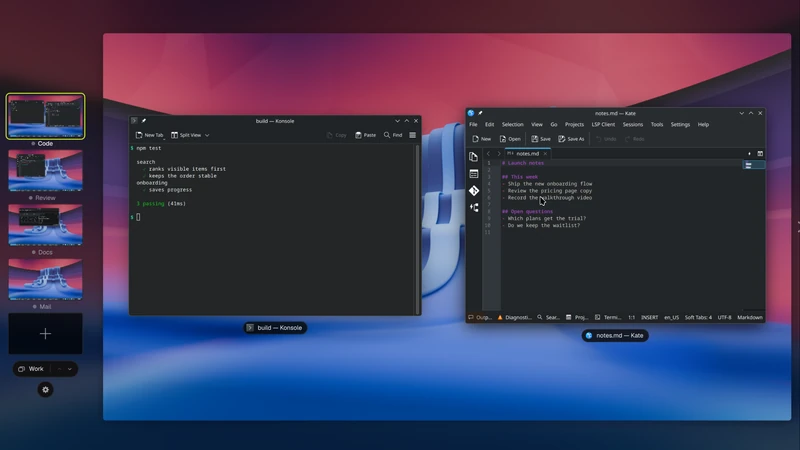
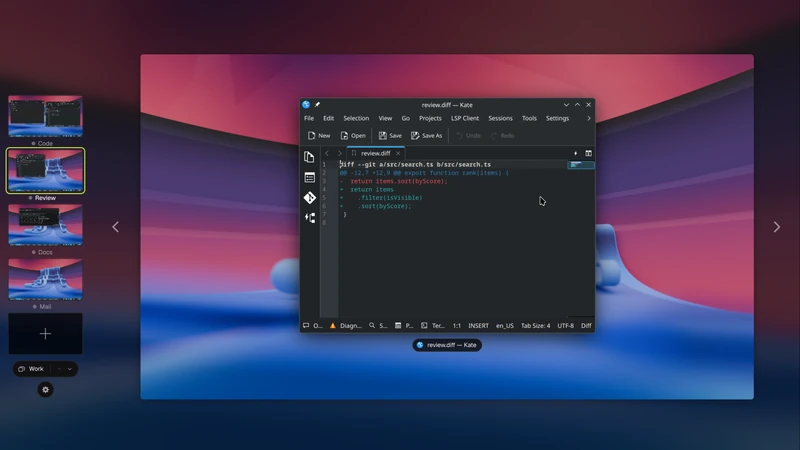
The desktop view's arrows beside a side bar, and a switch for them
- With the bar on the left or right, both of the view's < and > sit whole,
  each in its own gap: the one on the bar's side used to draw over the bar
  (taking its desktops' clicks), and on a 16:9 screen the other fell off the
  screen's edge. The view keeps room for them. Checked by the new arrowsside
  scenario, which a build with the old placement fails.
- Settings, General: "Show arrows beside the desktop view". Off, the arrows
  go and the view takes their room.
- The README's side-bar pictures show both arrows, and the README says
  where they sit and that they can be turned off.

diff --git a/package/contents/ui/impl/Main.qml b/package/contents/ui/impl/Main.qml
@@ -342,7 +342,7 @@ FocusScope {
     }
     // the pause before a held window switches desktops, and between switches while it stays
     readonly property int arrowHoldMs: 1000
-    readonly property bool arrowsShown: overviewVal > 0 && gridVal < 1 && !windowsOnly && groupDesktops.length > 1
+    readonly property bool arrowsShown: effect.showSideArrows && overviewVal > 0 && gridVal < 1 && !windowsOnly && groupDesktops.length > 1
     // where the desktop view is (read again whenever it could have moved), without the slide of a
     // desktop switch in progress: the arrows stay put while the desktops slide past
     readonly property rect viewRect: {
@@ -359,16 +359,20 @@ FocusScope {
         required property int side
         readonly property QtObject target: container.neighborDesktop(side)
         readonly property rect view: container.viewRect
-        readonly property real gutter: side < 0 ? view.x : container.width - view.x - view.width
+        // the gutter between the view and what's beside it: the screen's edge, or the desktop bar's
+        // inner edge when the bar is on this side (the arrow was drawn over the bar before, taking
+        // the clicks meant for its desktops)
+        readonly property real gutter: side < 0 ? view.x - container.barLeftEdge : container.barRightEdge - view.x - view.width
         // 64 px off the view's edge, or the middle of a narrower gutter
         readonly property real offset: Math.max(20, Math.min(64, gutter / 2))
+        readonly property real centerX: side < 0 ? view.x - offset : view.x + view.width + offset
         theme: effect.theme
         angle: side < 0 ? 180 : 0
         label: target ? target.name : ""
         holdMs: container.arrowHoldMs
         width: 120
         height: 220
-        x: (side < 0 ? view.x - offset : view.x + view.width + offset) - width / 2
+        x: centerX - width / 2
         y: view.y + view.height / 2 - height / 2
         // above a window being dragged (z 1000), which would otherwise hide it
         z: 1100
@@ -380,13 +384,23 @@ FocusScope {
         onWindowDropped: (window) => window.desktops = [sideArrow.target]
     }
     SideArrow {
+        id: previousArrow
         objectName: "arrow-previous"
         side: -1
     }
     SideArrow {
+        id: nextArrow
         objectName: "arrow-next"
         side: 1
     }
+    // where the arrows sit, beside the view and the bar, once Ectoview has opened (for the tests:
+    // "Ectoview: side arrows")
+    readonly property string sideArrowPlaces: overviewVal === 1 && gridVal === 0 && !windowsOnly && groupDesktops.length > 1 ? JSON.stringify({
+        shown: arrowsShown,
+        previous: previousArrow.visible ? previousArrow.centerX : null, next: nextArrow.visible ? nextArrow.centerX : null,
+        glyph: nextArrow.glyphSize, click: nextArrow.clickWidth, barLeft: barLeftEdge, barRight: barRightEdge,
+        viewLeft: viewRect.x, viewRight: viewRect.x + viewRect.width }) : ""
+    onSideArrowPlacesChanged: if (sideArrowPlaces) console.info("Ectoview: side arrows " + targetScreen.name + " " + sideArrowPlaces)
 
     // a window dropped on New desktop group: the group, with a new desktop holding the window
     function newGroupForWindow(window) {
@@ -876,8 +890,16 @@ FocusScope {
     // These are the minimum position of maximum size of the desktop preview in the overview
     // Ectoview: the room the bar and the toolbar take on each side (Overview's minX and minY, with
     // the bar on any side)
-    readonly property int reservedLeft: barPosition === 2 ? desktopBar.width : 0
-    readonly property int reservedRight: barPosition === 3 ? desktopBar.width : 0
+    // (with the bar on the left or right, the view keeps room beside it for the arrow on that side:
+    // its click area and a little air, so it sits between the bar and the view, not on the bar)
+    readonly property int sideArrowRoom: 80
+    readonly property real barLeftEdge: barPosition === 2 && !windowsOnly ? desktopBar.width : 0
+    readonly property real barRightEdge: barPosition === 3 && !windowsOnly ? width - desktopBar.width : width
+    // (and on the other side too: a side bar leaves the view so wide on a 16:9 screen that the far
+    // side's arrow fell off the screen's edge)
+    readonly property bool sideBar: (barPosition === 2 || barPosition === 3) && !windowsOnly && effect.showSideArrows
+    readonly property int reservedLeft: (barPosition === 2 ? desktopBar.width : 0) + (sideBar ? sideArrowRoom : 0)
+    readonly property int reservedRight: (barPosition === 3 ? desktopBar.width : 0) + (sideBar ? sideArrowRoom : 0)
     readonly property int reservedTop: topBar.height + (barPosition === 0 ? desktopBar.height : 0)
     readonly property int reservedBottom: barPosition === 1 ? desktopBar.height : 0
     property int minX: Kirigami.Units.largeSpacing + reservedLeft

diff --git a/package/contents/ui/impl/Effect.qml b/package/contents/ui/impl/Effect.qml
@@ -368,6 +368,7 @@ QtObject {
     readonly property int barPosition: Math.max(0, Math.min(3, Number(configuration.BarPosition) || 0))
     // the toolbar: the search field and the settings gear
     readonly property bool showToolbar: configuration.ShowToolbar !== false && String(configuration.ShowToolbar) !== "false"
+    readonly property bool showSideArrows: configuration.ShowSideArrows !== false && String(configuration.ShowSideArrows) !== "false"
     // the primary screen: KWin's first in its screen order
     readonly property QtObject primaryScreen: KWinComponents.Workspace.screenOrder.length > 0 ? KWinComponents.Workspace.screenOrder[0] : null
     function showsOn(screen) {

diff --git a/tests/e2e/check.py b/tests/e2e/check.py
@@ -379,6 +379,38 @@ elif scenario == 'gridgroups':
     dc = line('dragged code')
     check("a desktop dragged into another group's row joins that group, at the end of its row", 'Work,Design,Code,Music' in dc and re.search(r'd2=g1\b', dc), dc)
     check('arrow keys move between rows in the group grid', line('down').endswith('current Design'), line('down'))
+elif scenario in ('arrowsside', 'plant-arrowsside'):
+    common()
+    places = [json.loads(m) for m in re.findall(r'Ectoview: side arrows Virtual-1 (\{.*\})', log)]
+    def clear(p, side):
+        """the arrow on SIDE (-1 previous, 1 next): its caret clear of the view and on the screen,
+        its click area clear of the bar"""
+        c = p['previous'] if side < 0 else p['next']
+        if c is None:
+            return False, 'not shown'
+        g, k = p['glyph'] / 2, p['click'] / 2
+        if side < 0:
+            ok = c + g <= p['viewLeft'] - 4 and c - k >= p['barLeft'] and c - g >= 0
+        else:
+            ok = c - g >= p['viewRight'] + 4 and c + k <= p['barRight'] and c + g <= 3440
+        return ok, f"caret {c - g:.0f} to {c + g:.0f}, clicks {c - k:.0f} to {c + k:.0f}; view {p['viewLeft']:.0f} to {p['viewRight']:.0f}, bar edge {p['barLeft'] if side < 0 else p['barRight']:.0f}"
+    for name, pick in (('right', lambda p: p['barRight'] < 3440 and p['shown']), ('left', lambda p: p['barLeft'] > 0 and p['shown'])):
+        p = next((p for p in places if pick(p)), None)
+        if not p:
+            check(f'the arrows beside a {name}-hand bar were logged', False, f'{len(places)} placings')
+            continue
+        for side, what in ((-1, '<'), (1, '>')):
+            ok, detail = clear(p, side)
+            check(f'with the bar on the {name}, the {what} arrow sits whole between the view and the {"bar" if (side > 0) == (name == "right") else "screen edge"}', ok, detail)
+    # the arrows turned off on the settings page: neither drawn, and the view takes their room
+    left_on = next((p for p in places if p['barLeft'] > 0 and p['shown']), None)
+    off = next((p for p in places if p['barLeft'] > 0 and not p['shown']), None)
+    if off and left_on:
+        check('with the arrows off, neither is drawn and the view takes their room on both sides',
+              off['previous'] is None and off['next'] is None and off['viewLeft'] < left_on['viewLeft'] - 40 and off['viewRight'] > left_on['viewRight'] + 40,
+              f"arrows {off['previous']}, {off['next']}; view {off['viewLeft']:.0f} to {off['viewRight']:.0f}, with arrows {left_on['viewLeft']:.0f} to {left_on['viewRight']:.0f}")
+    else:
+        check('the view with the arrows off was logged', False, f'{len(places)} placings')
 elif scenario in ('gridstack', 'plant-gridstack'):
     common()
     steps = (out / 'steps.log').read_text(errors='replace') if (out / 'steps.log').exists() else ''

diff --git a/tests/unit/settings_test.cpp b/tests/unit/settings_test.cpp
@@ -297,6 +297,7 @@ private Q_SLOTS:
         QVERIFY(!checkBox(QStringLiteral("Switch desktops independently for each screen"))->isChecked());
         QCOMPARE(find<QComboBox>(QStringLiteral("kcfg_BarPosition"))->currentIndex(), 0);
         QVERIFY(find<QCheckBox>(QStringLiteral("kcfg_ShowToolbar"))->isChecked());
+        QVERIFY(find<QCheckBox>(QStringLiteral("kcfg_ShowSideArrows"))->isChecked());
     }
 
     void savesWhatEctoviewAndKWinRead()
@@ -308,6 +309,7 @@ private Q_SLOTS:
         find<QCheckBox>(QStringLiteral("kcfg_IgnoreMinimized"))->setChecked(true);
         find<QComboBox>(QStringLiteral("kcfg_BarPosition"))->setCurrentIndex(3);
         find<QCheckBox>(QStringLiteral("kcfg_ShowToolbar"))->setChecked(false);
+        find<QCheckBox>(QStringLiteral("kcfg_ShowSideArrows"))->setChecked(false);
         checkBox(QStringLiteral("Switch desktops independently for each screen"))->click();
         QVERIFY2(m_module->needsSave(), "changing the controls didn't mark the page as changed");
         m_module->save();
@@ -320,6 +322,7 @@ private Q_SLOTS:
         QCOMPARE(ectoview.readEntry("IgnoreMinimized", false), true);
         QCOMPARE(ectoview.readEntry("BarPosition", 0), 3);
         QCOMPARE(ectoview.readEntry("ShowToolbar", true), false);
+        QCOMPARE(ectoview.readEntry("ShowSideArrows", true), false);
         QCOMPARE(group(QStringLiteral("Windows")).readEntry("PerOutputVirtualDesktops", false), true);
     }
 
@@ -401,6 +404,7 @@ private Q_SLOTS:
         QVERIFY(radio(QStringLiteral("All of Ectoview, like the primary screen"))->isChecked());
         QVERIFY(!checkBox(QStringLiteral("Switch desktops independently for each screen"))->isChecked());
         QCOMPARE(find<QSlider>(QStringLiteral("kcfg_BackgroundDim"))->value(), 62);
+        QVERIFY(find<QCheckBox>(QStringLiteral("kcfg_ShowSideArrows"))->isChecked());
         const QStringList groups = entry(QStringLiteral("Groups"));
         const QStringList members = entry(QStringLiteral("DesktopGroups"));
         m_module->save();

diff --git a/kcm/ectoviewkcm.cpp b/kcm/ectoviewkcm.cpp
@@ -181,6 +181,12 @@ EctoviewEffectConfig::EctoviewEffectConfig(QObject *parent, const KPluginMetaDat
     auto toolbarHint = hintLabel(widget());
     toolbarHint->setText(i18nc("@info", "Without it, typing doesn't search, and the desktop groups and settings buttons move to the end of the desktop bar."));
     form->addRow(QString(), toolbarHint);
+    auto sideArrows = new QCheckBox(i18nc("@option:check", "Show arrows beside the desktop view"), widget());
+    sideArrows->setObjectName(QStringLiteral("kcfg_ShowSideArrows"));
+    form->addRow(i18nc("@label", "Arrows:"), sideArrows);
+    auto arrowsHint = hintLabel(widget());
+    arrowsHint->setText(i18nc("@info", "< and > go to the previous and next desktop in the group. Hold a dragged window on one to carry it there."));
+    form->addRow(QString(), arrowsHint);
 
     // ---- desktop groups are made and changed in Ectoview itself, where the desktops are in sight
     // (the settings page had a tab for them, the same things in a worse form: taken out November 17, 2026)

diff --git a/README.md b/README.md
@@ -48,7 +48,7 @@ biggest first. Each links to its section.
 | [Hidden desktops](#hidden-desktops) | ❌ No | ✅ A Hidden group: desktops kept out of the bar and out of Grid View until you open it, and quiet: they light no beacon |
 | [Grid View, by group](#grid-view-by-group) | Every desktop in one grid | A row per group, a long group stacked onto more rows lined up in columns, and the grid centered, so the desktops are drawn as big as the screen allows |
 | [Drag desktops into order](#drag-desktops-into-order) | Only in Grid View, by dropping a desktop on another | In the bar too, sliding the others aside, and the bar scrolls along when you reach its end |
-| [Carry a window to another desktop](#carry-a-window-to-another-desktop) | Drop it on a desktop in the bar | Also hold it on the < or > beside the big view: after a pause the view moves on, carrying the window |
+| [Carry a window to another desktop](#carry-a-window-to-another-desktop) | Drop it on a desktop in the bar | Also hold it on the < or > beside the big view: after a pause the view moves on, carrying the window (the arrows can be turned off) |
 | [Group shortcuts with Ectoview closed](#step-through-groups) | — | The new group's desktop rises in where you are, instead of the screen sliding sideways past every desktop between |
 | [Many desktops](#many-desktops) | The row scrolls when flicked, cut off sharply at its ends | < and > page along the row, and its ends fade into the backdrop |
 | [Your screens](#your-screens) | Opens on every screen | In full on the primary screen; your other screens can show the same, only their own windows, or nothing at all, for a screen you keep as a dashboard |
@@ -155,7 +155,8 @@ along.
 Drag a window onto a desktop in the bar, as in Overview, or onto a group's row in the list:
 it goes to that group's desktop, and you with it. Hold a window on the < or > beside the
 big view, and after a pause the view moves to the next desktop in the group, carrying it.
-Let go there.
+Let go there. A click on an arrow goes to that desktop. If you'd rather not have the arrows,
+turn them off in the settings: the view then takes their room.
 
 <p align="center">
   <img src="docs/pictures/readme-arrows.webp" width="100%" alt="The notes window dragged to the > at the right of the big view. After a pause the view slides on to the next desktop with the window still under the pointer, and it's let go there">
@@ -213,7 +214,8 @@ how dark the backdrop gets.
 ### Where the bar sits
 
 The bar goes along the top, bottom, left or right, and the toolbar can go: then the groups'
-button and the gear sit at the bar's end.
+button and the gear sit at the bar's end. With the bar on a side, the view keeps room for its
+arrows, so each sits in its own gap, clear of the bar and of the screen's edge.
 
 <table>
   <tr>
@@ -221,8 +223,8 @@ button and the gear sit at the bar's end.
     <td width="50%"><img src="docs/pictures/readme-bar-bottom.webp" width="100%" alt="The desktop bar along the bottom of the screen; the toolbar stays at the top"><br><sub><b>Bottom,</b> with the toolbar at the top</sub></td>
   </tr>
   <tr>
-    <td width="50%"><img src="docs/pictures/readme-bar-left.webp" width="100%" alt="The desktop bar down the left side without the toolbar: the groups' button and the gear at the bar's end"><br><sub><b>Left,</b> without the toolbar</sub></td>
-    <td width="50%"><img src="docs/pictures/readme-bar-right.webp" width="100%" alt="The desktop bar down the right side without the toolbar: the groups' button and the gear at the bar's end"><br><sub><b>Right,</b> without the toolbar</sub></td>
+    <td width="50%"><img src="docs/pictures/readme-bar-left.webp" width="100%" alt="The desktop bar down the left side without the toolbar: the groups' button and the gear at the bar's end. On Review, the view's < sits between the bar and the view, its > between the view and the screen's edge"><br><sub><b>Left,</b> without the toolbar</sub></td>
+    <td width="50%"><img src="docs/pictures/readme-bar-right.webp" width="100%" alt="The desktop bar down the right side without the toolbar: the groups' button and the gear at the bar's end. On Review, the view's < sits between the screen's edge and the view, its > between the view and the bar"><br><sub><b>Right,</b> without the toolbar</sub></td>
   </tr>
 </table>
 
@@ -231,9 +233,9 @@ button and the gear sit at the bar's end.
 The gear beside the search field opens Ectoview's settings, also in System Settings under
 Window Management, Desktop Effects. Two tabs:
 
-- **General:** the look, the accent, the backdrop's darkness, where the bar sits and the
-  toolbar, what the other screens show, and KWin's own Switch desktops independently for
-  each screen.
+- **General:** the look, the accent, the backdrop's darkness, where the bar sits, the
+  toolbar, the arrows beside the desktop view, what the other screens show, and KWin's own
+  Switch desktops independently for each screen.
 - **Shortcuts:** Ectoview's own, with KWin's one-desktop switches (left, right, up and
   down) beside them, like items together.
 

diff --git a/docs/deferred.md b/docs/deferred.md
@@ -16,7 +16,7 @@
 - Other screens set to "Only their windows": Grid View there shows that screen's desktop grid (no bar); clicking a window there is untested.
 - Grid View with desktop groups: past about five groups the desktops get small; scrolling the grid is not built (`package/contents/ui/impl/Main.qml` gridCellH). The row headings sit in a fixed 300 px column.
 - Grid View: a desktop dragged in the grid moves only its windows on screen (Overview's own behavior), so an empty desktop shows no motion while dragged; the row it would join lights up.
-- Desktop view arrows (design proposal 7, revised to a plain < and >; `package/contents/ui/impl/Main.qml` SideArrow): untested with the bar on the left or right (the bar sits in the gutter the arrows use), on a windows-only screen (they're off there), with per-screen desktops across two screens, and with a narrow gutter (a 16:9 screen; the arrow then sits 20 px off the view). Over a held window they have no backing (a shadow was turned down: not one of Ectoview's tokens), so over a white window the arrow and its name are hard to read.
+- Desktop view arrows (design proposal 7, revised to a plain < and >; `package/contents/ui/impl/Main.qml` SideArrow): with the bar on the left or right they sit between the bar and the view (arrowsside, 2026-11-18); untested on a windows-only screen (they're off there), with per-screen desktops across two screens, and with a narrow gutter (a 16:9 screen; the arrow then sits 20 px off the view). Over a held window they have no backing (a shadow was turned down: not one of Ectoview's tokens), so over a white window the arrow and its name are hard to read.
 - Arrows: a report that a window still held switched again almost at once did not reproduce in the test KWin (the old side zones' two pauses measured 0.9 s and 1.0 s). The hold is now timed by a clock with a guard that needs a full pause since the last switch, proven by the arrows scenario and plant-arrows; whether it was the cause on the reporting desktop is unproven until it is tried there.
 - Arrows: the pause is a fixed 1 s, not scaled by Plasma's animation speed (it's a wait, not a motion).
 - A window held while an arrow moves the view to another desktop is moved back by each step of its desktop's slide (`EctoWindowDelegate.qml`, slideX), so it stays under the pointer and its desktop slides away and back in as any does (tested by arrows and arrowsback); a drop the view refuses (the window flying back to where it was) is untested.
